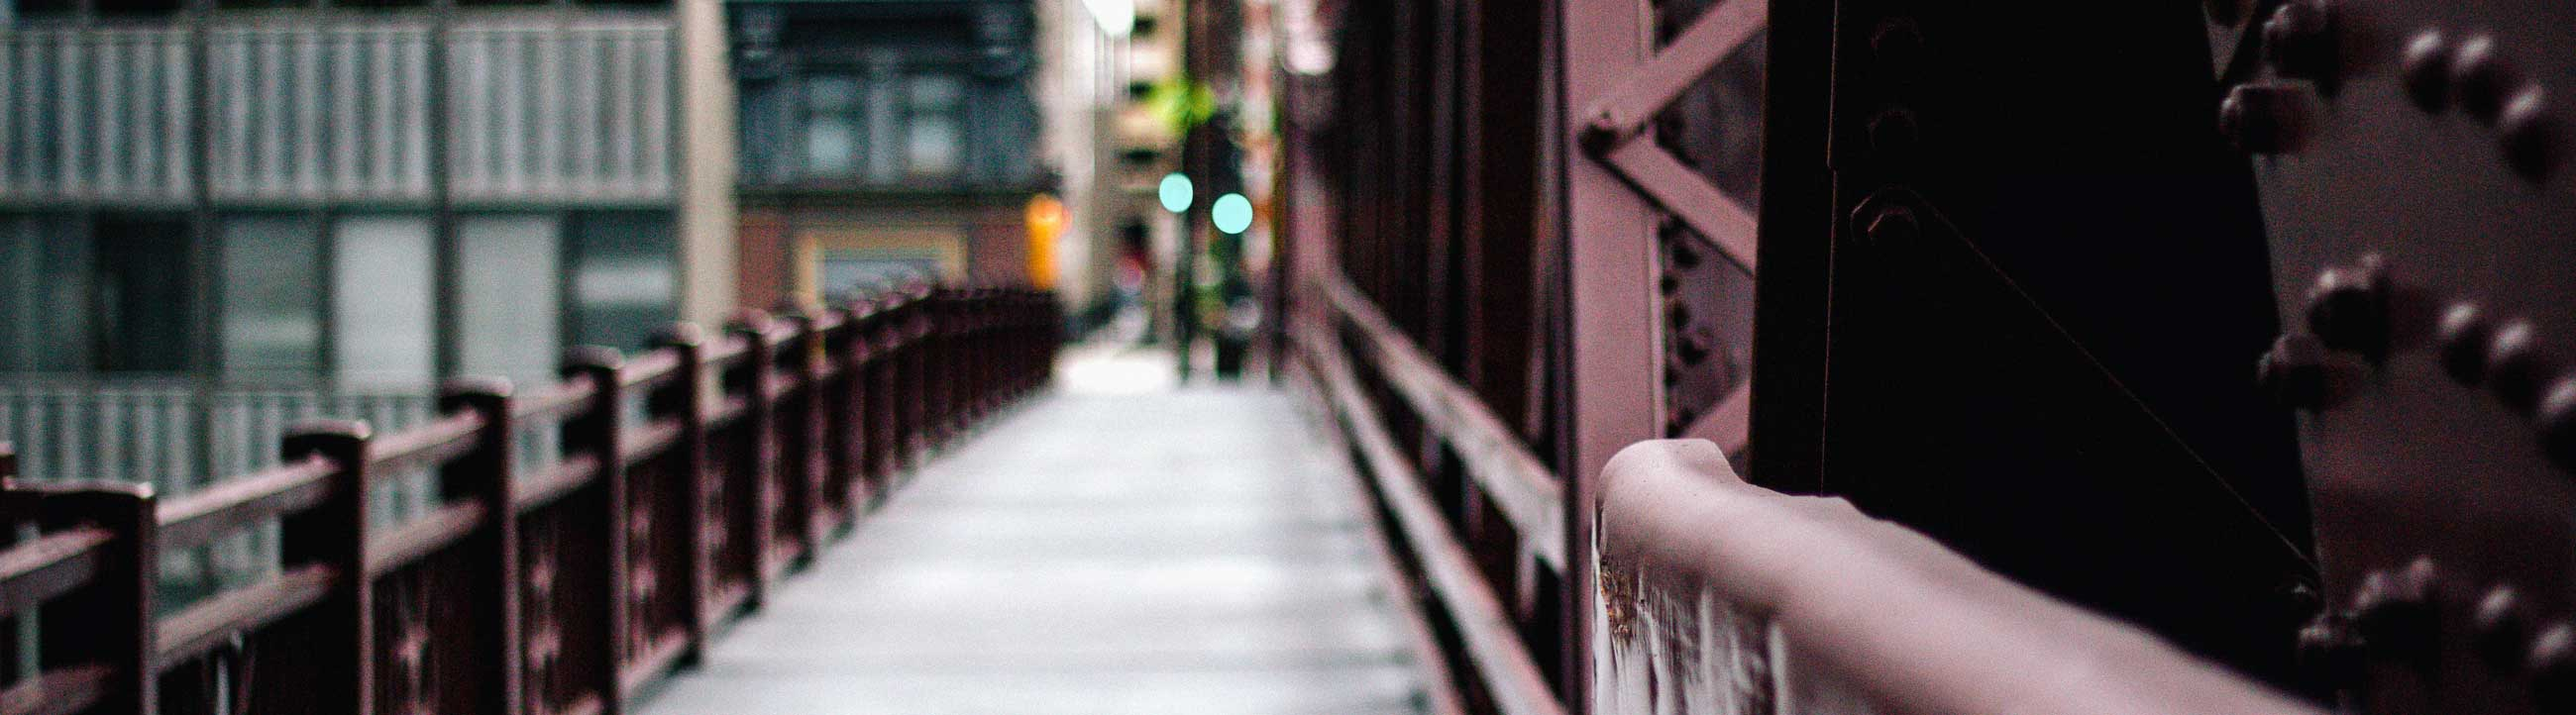
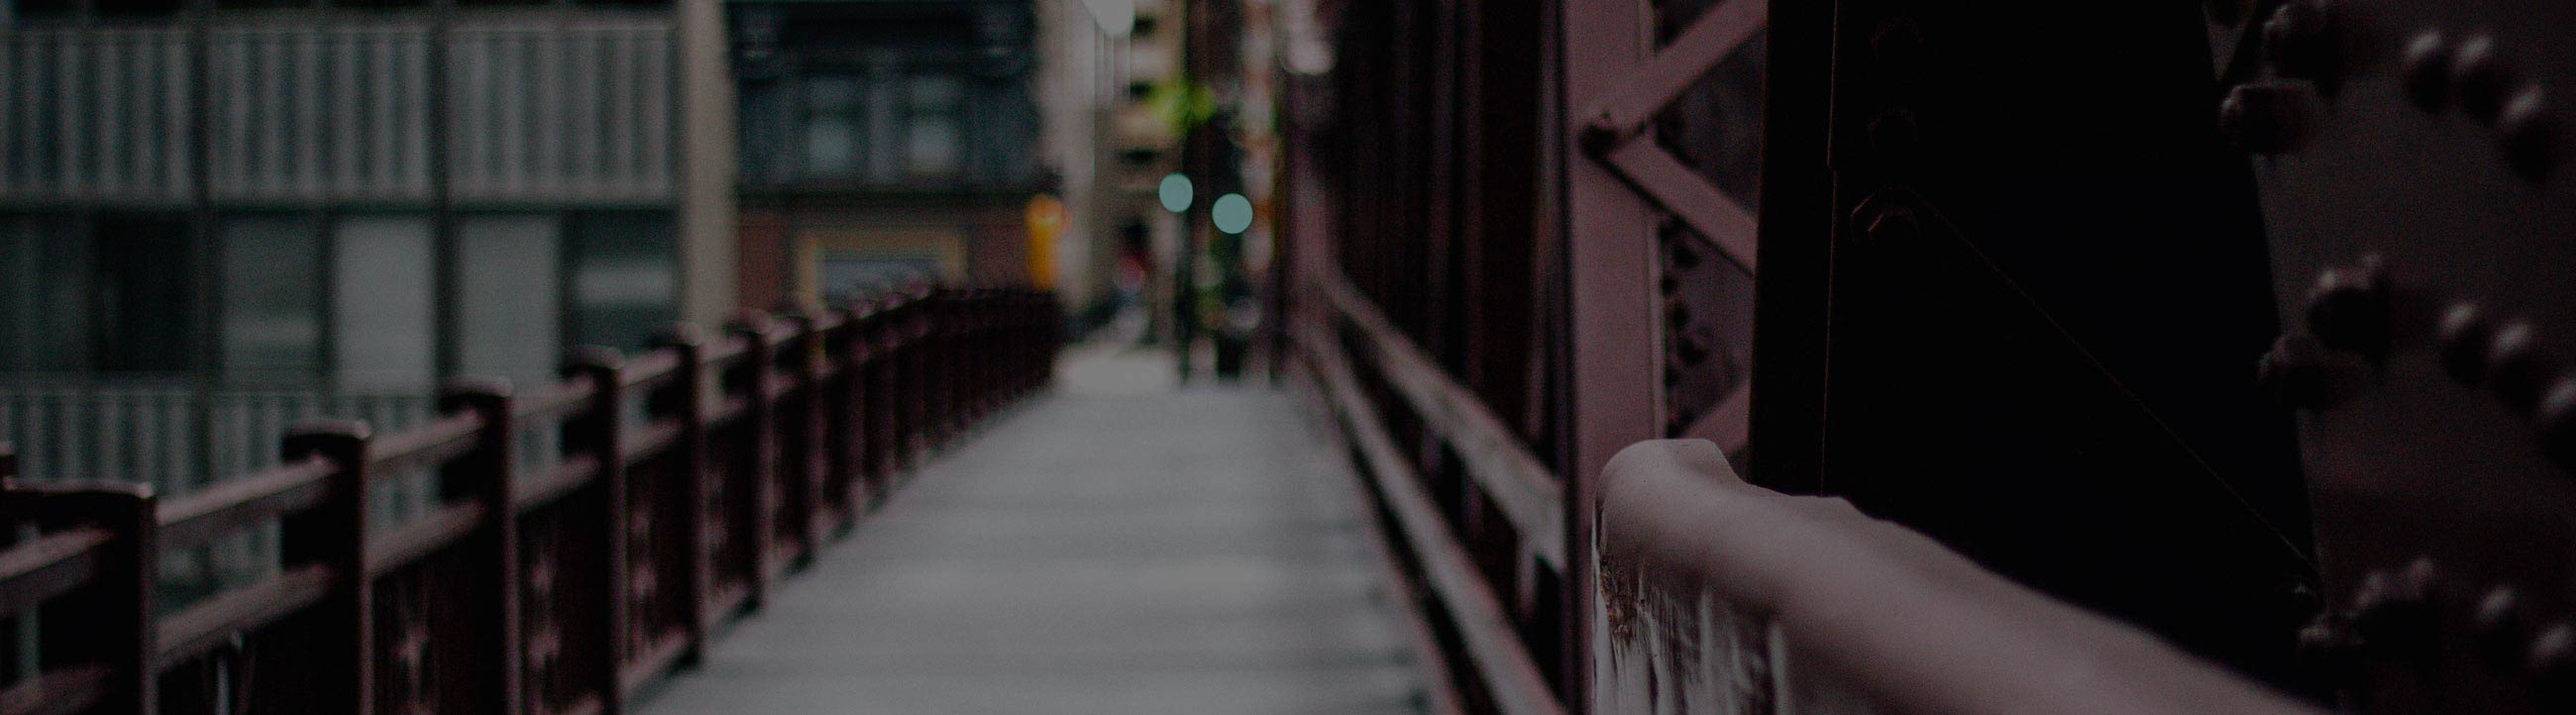
Added links for browsing datasets and uploading. Fixed Steve's name, blurred picture

diff --git a/frontend/index.html b/frontend/index.html
@@ -83,12 +83,31 @@
     </div>
     <!-- /Services -->
 
+    <!-- /Link to Examples -->
+
 
 
     <!-- Link to Examples -->
     <div class="example">
       <div class="vert-text">
-        <h1>Some Of Our Visualizations</h1>
+        <h1>Browse Our Datasets.</h1>
+        <hr>
+        <div class="row">
+          <a href="datasets.html" class="btn btn-lg btn-primary">Browse</a>
+        </div>
+      </div>
+       <div class="vert-text">
+        <h1>Upload New Datasets.</h1>
+        <hr>
+        <div class="row">
+          <a href="upload.html" class="btn btn-lg btn-primary">Upload</a>
+        </div>
+      </div>
+    </div>
+
+    <div class="example">
+      <div class="vert-text">
+        <h1>Some Of Our Visualizations.</h1>
         <hr>
         <div class="row">
           <h3></h3>
@@ -101,25 +120,9 @@
           <div class="col-md-4 text-center">
             <a href="visualizations/nycrimes/dots.html" class="btn btn-lg btn-primary">Crimes by Type II</a>
           </div>
-          </div>
-        </div>
-      </div>
-
-    </div>
-    <!-- /Link to Examples -->
-
-    <!-- Datasets -->
-    <div class="example">
-      <div class="vert-text">
-          <h1>Browse Our Datasets</h1>
-          <hr>
-          <div class="row">
-            <a href="datasets.html" class="btn btn-lg btn-primary">Datasets</a>
-          </div>
         </div>
       </div>
     </div>
-    <!-- /Datasets -->
 
     <!-- Portfolio -->
     <div id="portfolio" class="portfolio">
@@ -166,7 +169,7 @@
           <div class="col-md-4 text-center">
             <div class="portfolio-item">
               <a href="#"><img class="img-portfolio img-responsive" src="img/team-steve.jpg"></a>
-              <h4>Steve Livermore-Tozser</h4>
+              <h4>Stephen Livermore-Tozer</h4>
             </div>
           </div>
         </div>
